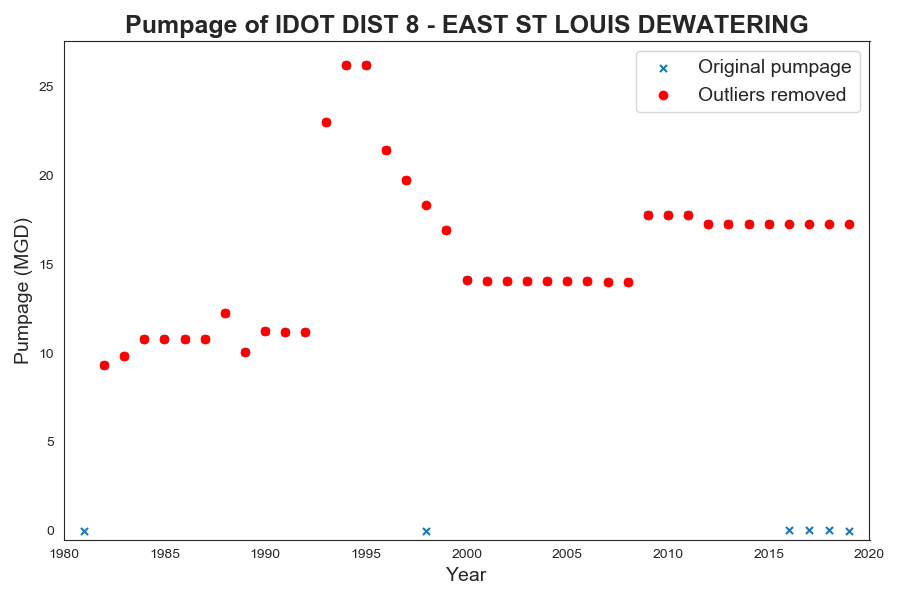
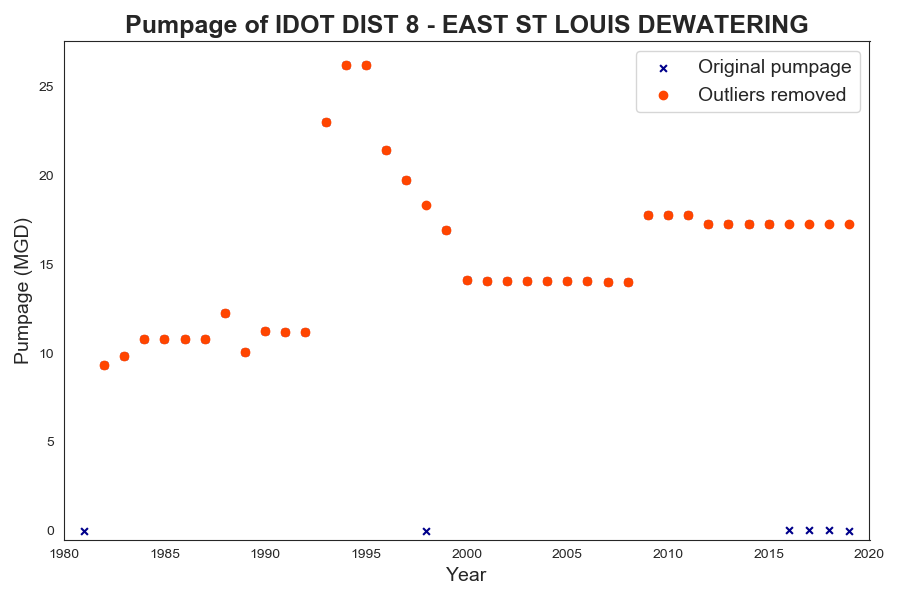
Update modified pumpage pretreatment

diff --git a/pumping/well_pumpage.py b/pumping/well_pumpage.py
@@ -45,8 +45,8 @@ def pump_modified_plot(irow, df1, df_fac_pump_copy):
     pump_new = df1.iloc[irow, 1:]
     plt.figure(figsize=(9, 6), facecolor="white")
 
-    plt.scatter(year_list, pump, marker="x", s=26, label='Original pumpage')
-    plt.scatter(year_list, pump_new, c="red",label='Outliers removed')
+    plt.scatter(year_list, pump, marker="x", color="darkblue",s=24, label='Original pumpage')
+    plt.scatter(year_list, pump_new, c="orangered",label='Outliers removed')
     plt.title('Pumpage of' + ' ' + df_fac_pump_copy.iloc[j, 0], fontsize=18, fontweight="bold")
     plt.ylabel('Pumpage (MGD)', fontsize=14)
     plt.xlabel('Year', fontsize=14)
